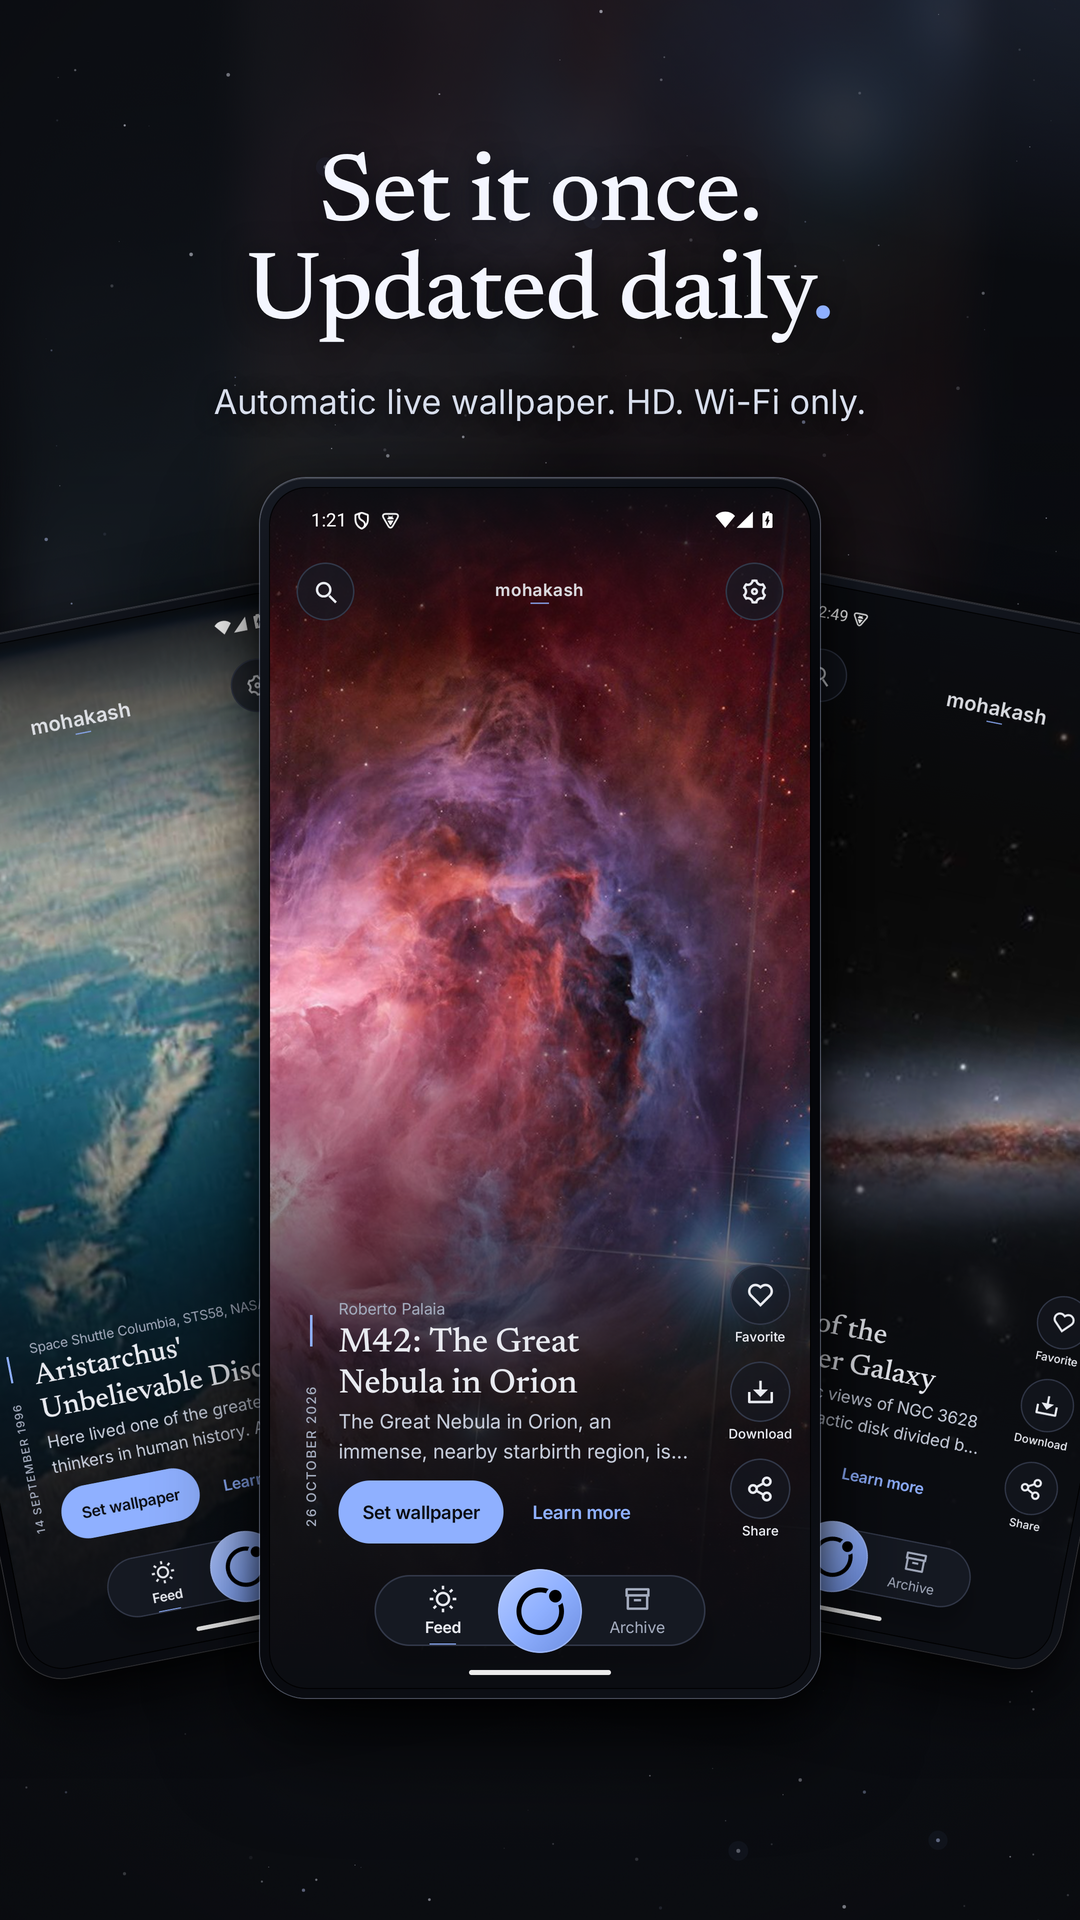
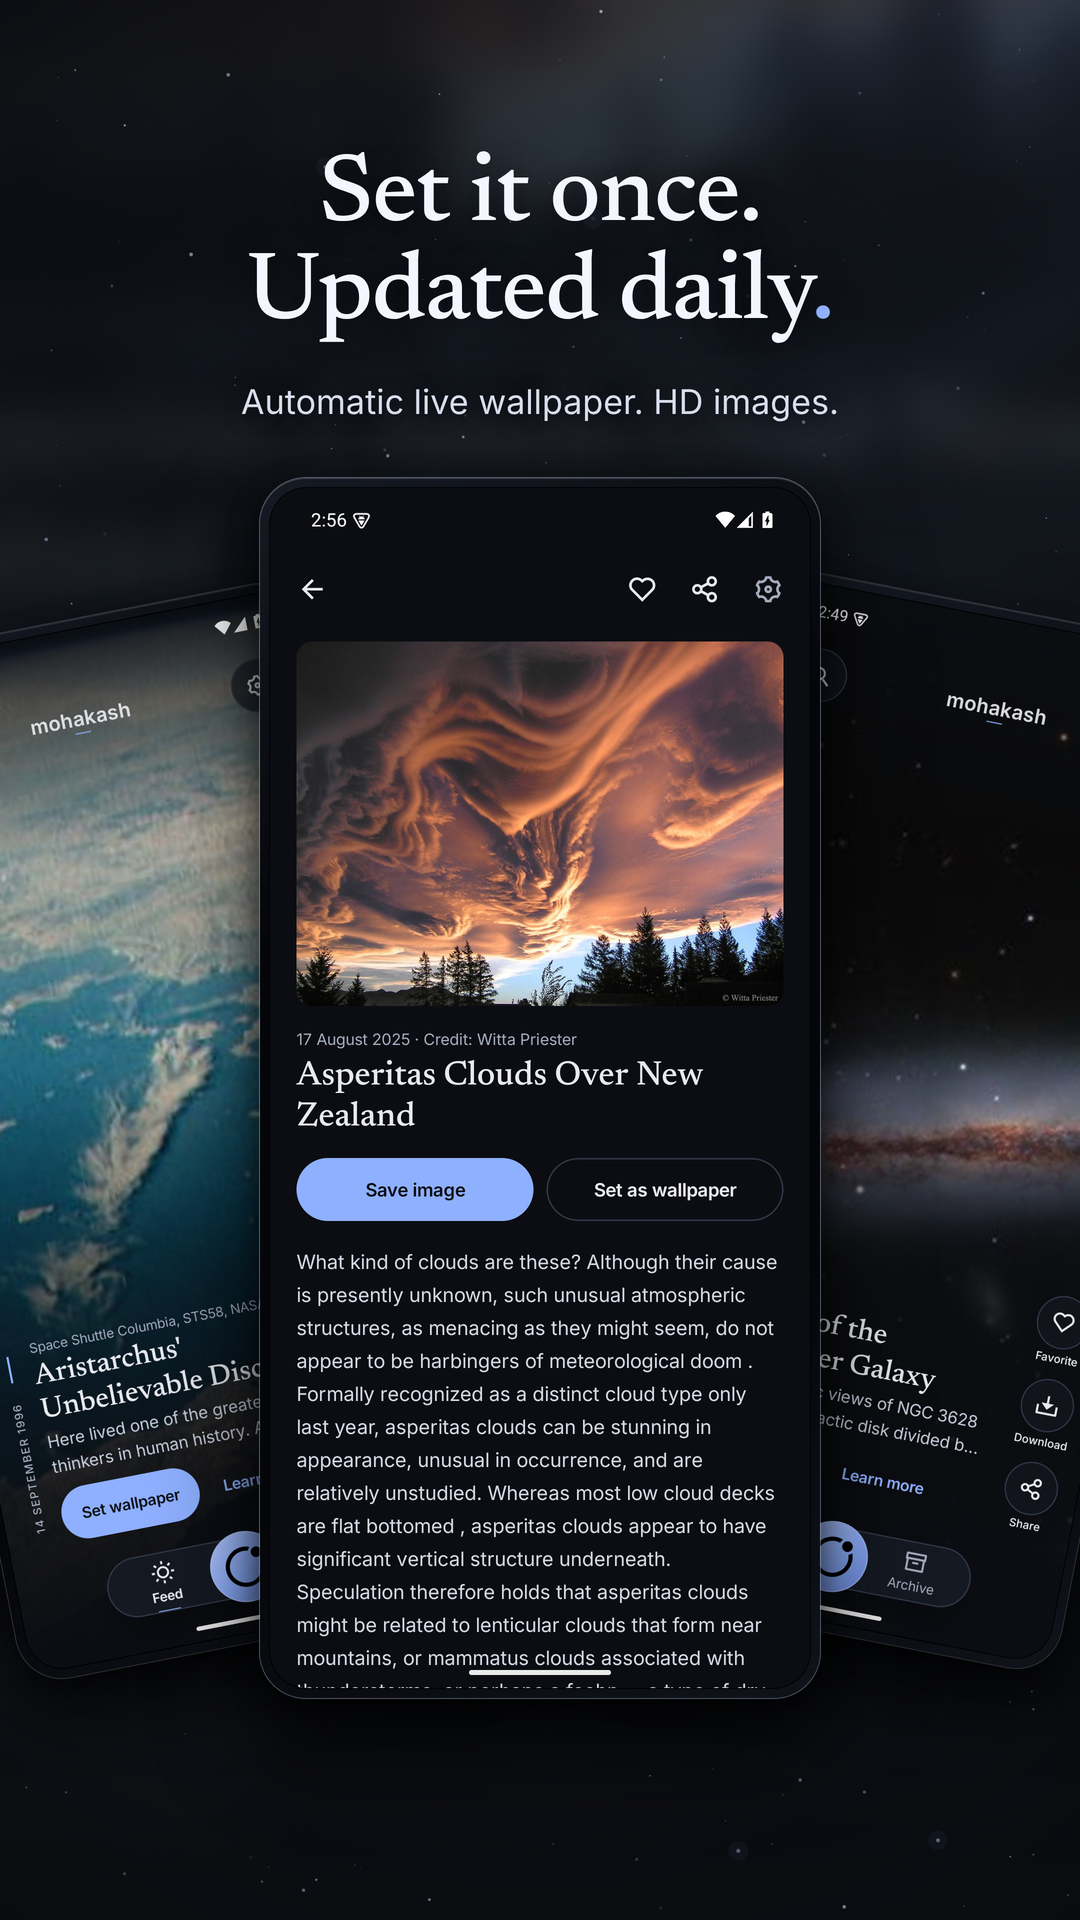
fix(store): remove M42 and Wi-Fi-only copy from showcase

diff --git a/store-assets/README.md b/store-assets/README.md
@@ -14,7 +14,7 @@ Campaign line: **“New wallpaper, every day.”**
 | # | Install driver | Headline | Support | Screen |
 |---|----------------|----------|---------|--------|
 | 01 | Fresh wallpaper daily | **New wallpaper, every day.** | Fresh astronomy, ready for your home screen. | *M42: The Great Nebula in Orion* |
-| 02 | Set-and-forget live wallpaper | **Set it once. Updated daily.** | Automatic live wallpaper. HD. Wi-Fi only. | Three-phone wallpaper showcase |
+| 02 | Set-and-forget live wallpaper | **Set it once. Updated daily.** | Automatic live wallpaper. HD images. | Three-phone wallpaper showcase |
 | 03 | Discovery | **Random wallpapers, at your fingertips.** | One tap. A surprise from the whole archive. | Random picker over *Comet NEAT* |
 | 04 | Keep offline | **Keep the ones you love.** | Save favourites. Read them offline. | Archive and Saved, 2024 filter |
 | 05 | Full-quality downloads | **Full resolution. Save or set it.** | The original image, one tap away. | *Asperitas Clouds* entry |
